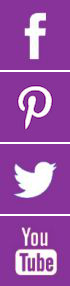
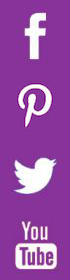
Tidy up sprite smith, fix typo

diff --git a/_sass/_rape-crisis-icons.scss b/_sass/_rape-crisis-icons.scss
@@ -1,8 +1,8 @@
 .i {
   display: inline-block;
   overflow: hidden;
-  height: 30px;
-  width: 30px;
+  height: 70px;
+  width: 70px;
   position: relative;
 }
 
@@ -16,30 +16,19 @@ Icon classes can be used entirely standalone. They are named after their origina
 .i-rape-crisis-facebook {
   background-image: url(img/rape-crisis/icons.png);
   background-position: 0px 0px;
-  width: 70px;
-  height: 70px;
 }
-.i-rape-crisis-icons {
-  background-image: url(img/rape-crisis/icons.png);
-  background-position: 0px -72px;
-  width: 70px;
-  height: 862px;
-}
+
 .i-rape-crisis-pinterest {
   background-image: url(img/rape-crisis/icons.png);
-  background-position: 0px -936px;
-  width: 70px;
-  height: 70px;
+  background-position: 0px -70px;
 }
+
 .i-rape-crisis-twitter {
   background-image: url(img/rape-crisis/icons.png);
-  background-position: 0px -1008px;
-  width: 70px;
-  height: 70px;
+  background-position: 0px -140px;
 }
+
 .i-rape-crisis-youtube {
   background-image: url(img/rape-crisis/icons.png);
-  background-position: 0px -1080px;
-  width: 70px;
-  height: 70px;
+  background-position: 0px -210px;
 }

diff --git a/css/rape-crisis-icons.css b/css/rape-crisis-icons.css
@@ -13,19 +13,19 @@ Icon classes can be used entirely standalone. They are named after their origina
 }
 .i-rape-crisis-pinterest:before {
   background-image: url(img/rape-crisis/icons.png);
-  background-position: 0px -72px;
+  background-position: 0px -70px;
   width: 70px;
   height: 70px;
 }
 .i-rape-crisis-twitter:before {
   background-image: url(img/rape-crisis/icons.png);
-  background-position: 0px -144px;
+  background-position: 0px -140px;
   width: 70px;
   height: 70px;
 }
 .i-rape-crisis-youtube:before {
   background-image: url(img/rape-crisis/icons.png);
-  background-position: 0px -216px;
+  background-position: 0px -210px;
   width: 70px;
   height: 70px;
 }

diff --git a/.spritesmith.js b/.spritesmith.js
@@ -6,7 +6,7 @@ module.exports = {
   src: './css/img/rape-crisis/*.{png,gif,jpg}',
   destImage: './css/img/rape-crisis/icons.png',
   destCSS: './css/rape-crisis-icons.css',
-  padding: 2,
+  padding: 0,
   algorithm: 'top-down',
   algorithmOpts: { sort: false },
   engine: 'gmsmith',

diff --git a/_atoms/icon-rape-crisis-youtube.html b/_atoms/icon-rape-crisis-youtube.html
@@ -3,4 +3,4 @@ layout: default
 name: icon-rape-crisis-youtube
 ---
 
-<a href="#"><i class="i i-rape-crisis-youtube"></i>span class="visuallyhidden">Youtube</span></a>
+<a href="#"><i class="i i-rape-crisis-youtube"></i><span class="visuallyhidden">Youtube</span></a>
